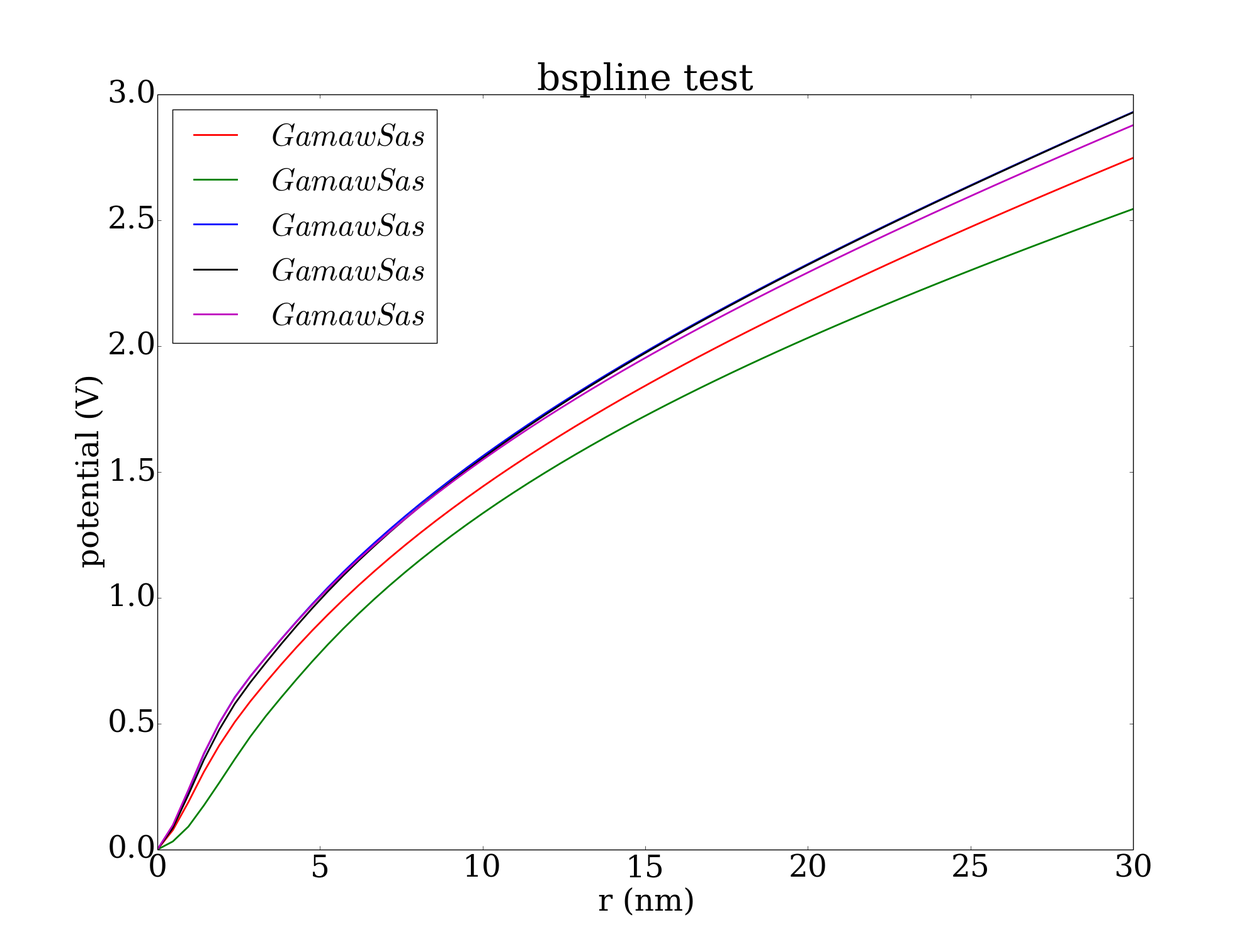
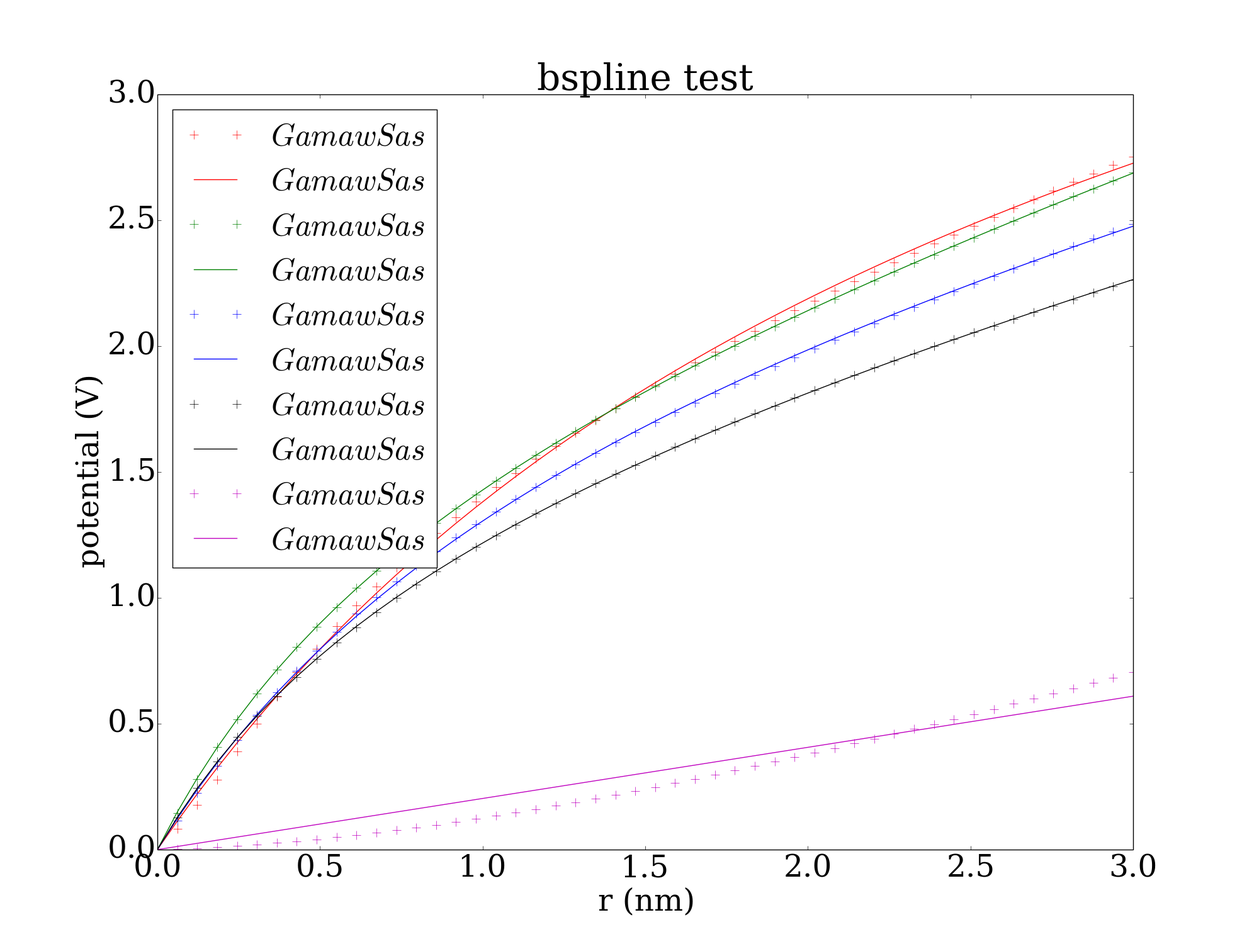
finished spline interpolation, tested. Continue developing program for surface definition

diff --git a/Emission/python/splinetest.py b/Emission/python/splinetest.py
@@ -17,30 +17,55 @@ ax.set_xlabel(r"r (nm)")
 ax.set_ylabel(r"potential (V)")
 ax.set_title(r"bspline test")
 
-x = np.array([0.0000000000000000E+00,0.4761904761904762E+00,0.9523809523809523E+00,0.1428571428571428E+01,0.1904761904761905E+01,0.2380952380952381E+01,0.2857142857142857E+01,0.3333333333333333E+01,0.3809523809523809E+01,0.4285714285714286E+01,0.4761904761904762E+01,0.5238095238095238E+01,0.5714285714285714E+01,0.6190476190476190E+01,0.6666666666666666E+01,0.7142857142857142E+01,0.7619047619047619E+01,0.8095238095238095E+01,0.8571428571428571E+01,0.9047619047619047E+01,0.9523809523809524E+01,0.1000000000000000E+02,0.1047619047619048E+02,0.1095238095238095E+02,0.1142857142857143E+02,0.1190476190476190E+02,0.1238095238095238E+02,0.1285714285714286E+02,0.1333333333333333E+02,0.1380952380952381E+02,0.1428571428571428E+02,0.1476190476190476E+02,0.1523809523809524E+02,0.1571428571428571E+02,0.1619047619047619E+02,0.1666666666666666E+02,0.1714285714285714E+02,0.1761904761904762E+02,0.1809523809523809E+02,0.1857142857142857E+02,0.1904761904761905E+02,0.1952380952380952E+02,0.2000000000000000E+02,0.2047619047619047E+02,0.2095238095238095E+02,0.2142857142857143E+02,0.2190476190476191E+02,0.2238095238095238E+02,0.2285714285714285E+02,0.2333333333333333E+02,0.2380952380952381E+02,0.2428571428571428E+02,0.2476190476190476E+02,0.2523809523809524E+02,0.2571428571428571E+02,0.2619047619047619E+02,0.2666666666666666E+02,0.2714285714285714E+02,0.2761904761904762E+02,0.2809523809523809E+02,0.2857142857142857E+02,0.2904761904761905E+02,0.2952380952380952E+02,0.3000000000000000E+02])
-y = np.array([0.1526860504101066E-16,0.7740337216348617E-01,0.1883584058646358E+00,0.3084086237162248E+00,0.4144267629353944E+00,0.5071351053610601E+00,0.5887949884117250E+00,0.6639335337873408E+00,0.7359361799367280E+00,0.8047534306693621E+00,0.8703602163735674E+00,0.9328960629791540E+00,0.9927530398034792E+00,0.1050164331290184E+01,0.1105323801727795E+01,0.1158419154210847E+01,0.1209665094036204E+01,0.1259151750474700E+01,0.1306987401695751E+01,0.1353294733512533E+01,0.1398251818374644E+01,0.1441945475313542E+01,0.1484444806970154E+01,0.1525823092575989E+01,0.1566201785782227E+01,0.1605644392575422E+01,0.1644196130985063E+01,0.1681895218994583E+01,0.1718822832416964E+01,0.1755030057464170E+01,0.1790549726737696E+01,0.1825414437561945E+01,0.1859683512795718E+01,0.1893397455796226E+01,0.1926578945019751E+01,0.1959250238786760E+01,0.1991451801218052E+01,0.2023214869567662E+01,0.2054552406054390E+01,0.2085481158191033E+01,0.2116029286056236E+01,0.2146225590787779E+01,0.2176082571772800E+01,0.2205612460765791E+01,0.2234834408324195E+01,0.2263772304930319E+01,0.2292435694544391E+01,0.2320833282022421E+01,0.2348976184378123E+01,0.2376884097389582E+01,0.2404565080684955E+01,0.2432026387506764E+01,0.2459277583159301E+01,0.2486334974887146E+01,0.2513205283161470E+01,0.2539894078683089E+01,0.2566408162656980E+01,0.2592760640418722E+01,0.2618956292772558E+01,0.2644999086707941E+01,0.2670894161917015E+01,0.2696652168954838E+01,0.2722278483307146E+01,0.2747776705953610E+01])
+x = np.array([0.0000000000000000E+00,0.6122448979591837E-01,0.1224489795918367E+00,0.1836734693877551E+00,0.2448979591836735E+00,0.3061224489795918E+00,0.3673469387755102E+00,0.4285714285714285E+00,0.4897959183673469E+00,0.5510204081632653E+00,0.6122448979591837E+00,0.6734693877551020E+00,0.7346938775510203E+00,0.7959183673469388E+00,0.8571428571428571E+00,0.9183673469387755E+00,0.9795918367346939E+00,0.1040816326530612E+01,0.1102040816326531E+01,0.1163265306122449E+01,0.1224489795918367E+01,0.1285714285714286E+01,0.1346938775510204E+01,0.1408163265306122E+01,0.1469387755102041E+01,0.1530612244897959E+01,0.1591836734693878E+01,0.1653061224489796E+01,0.1714285714285714E+01,0.1775510204081633E+01,0.1836734693877551E+01,0.1897959183673469E+01,0.1959183673469388E+01,0.2020408163265306E+01,0.2081632653061225E+01,0.2142857142857143E+01,0.2204081632653061E+01,0.2265306122448980E+01,0.2326530612244898E+01,0.2387755102040816E+01,0.2448979591836735E+01,0.2510204081632653E+01,0.2571428571428571E+01,0.2632653061224490E+01,0.2693877551020408E+01,0.2755102040816326E+01,0.2816326530612245E+01,0.2877551020408163E+01,0.2938775510204081E+01,0.3000000000000000E+01])
+y = np.array([0.0000000000000000E+00,0.8365252382614198E-01,0.1765828996166931E+00,0.2786927920827887E+00,0.3899658294138296E+00,0.5002433423914847E+00,0.6086397700021808E+00,0.7062177671520237E+00,0.7971870872882175E+00,0.8865313490488613E+00,0.9695512437120610E+00,0.1045908646092103E+01,0.1120651809870018E+01,0.1191507613489242E+01,0.1256540541525198E+01,0.1320471252349982E+01,0.1382479663372007E+01,0.1439478120780820E+01,0.1496130025536284E+01,0.1552104218701051E+01,0.1603732316538968E+01,0.1654775418613560E+01,0.1705235000834136E+01,0.1752866045213557E+01,0.1799605161466355E+01,0.1845912567597902E+01,0.1890442327993170E+01,0.1934146958838208E+01,0.1977509834832163E+01,0.2019710529623241E+01,0.2060808974461640E+01,0.2101642337182494E+01,0.2141774125130218E+01,0.2180809286688201E+01,0.2219636593381203E+01,0.2258155708602524E+01,0.2295670183402697E+01,0.2333011522904838E+01,0.2370178872378150E+01,0.2406330006400784E+01,0.2442341019601713E+01,0.2478212066213034E+01,0.2513362521167159E+01,0.2548281580111803E+01,0.2583160238297120E+01,0.2617539287005517E+01,0.2651624918915804E+01,0.2685612377554610E+01,0.2719259340255286E+01,0.2752579484853335E+01])
 
-ax.plot(x,y,"r-",linewidth=2,markersize=3,label=r"$ Gamaw Sas $")
+ax.plot(x,y,"r+",linewidth=3,markersize=10,label=r"$ Gamaw Sas $")
 
-x = np.array([0.0000000000000000E+00,0.4761904761904762E+00,0.9523809523809523E+00,0.1428571428571428E+01,0.1904761904761905E+01,0.2380952380952381E+01,0.2857142857142857E+01,0.3333333333333333E+01,0.3809523809523809E+01,0.4285714285714286E+01,0.4761904761904762E+01,0.5238095238095238E+01,0.5714285714285714E+01,0.6190476190476190E+01,0.6666666666666666E+01,0.7142857142857142E+01,0.7619047619047619E+01,0.8095238095238095E+01,0.8571428571428571E+01,0.9047619047619047E+01,0.9523809523809524E+01,0.1000000000000000E+02,0.1047619047619048E+02,0.1095238095238095E+02,0.1142857142857143E+02,0.1190476190476190E+02,0.1238095238095238E+02,0.1285714285714286E+02,0.1333333333333333E+02,0.1380952380952381E+02,0.1428571428571428E+02,0.1476190476190476E+02,0.1523809523809524E+02,0.1571428571428571E+02,0.1619047619047619E+02,0.1666666666666666E+02,0.1714285714285714E+02,0.1761904761904762E+02,0.1809523809523809E+02,0.1857142857142857E+02,0.1904761904761905E+02,0.1952380952380952E+02,0.2000000000000000E+02,0.2047619047619047E+02,0.2095238095238095E+02,0.2142857142857143E+02,0.2190476190476191E+02,0.2238095238095238E+02,0.2285714285714285E+02,0.2333333333333333E+02,0.2380952380952381E+02,0.2428571428571428E+02,0.2476190476190476E+02,0.2523809523809524E+02,0.2571428571428571E+02,0.2619047619047619E+02,0.2666666666666666E+02,0.2714285714285714E+02,0.2761904761904762E+02,0.2809523809523809E+02,0.2857142857142857E+02,0.2904761904761905E+02,0.2952380952380952E+02,0.3000000000000000E+02])
-y = np.array([0.7634302520505330E-17,0.3244796254251441E-01,0.9120107552925213E-01,0.1752804258231468E+00,0.2661121691903252E+00,0.3594158334941829E+00,0.4486428211845050E+00,0.5301586430326056E+00,0.6049567241159403E+00,0.6775102303419914E+00,0.7474877554794854E+00,0.8141837068633498E+00,0.8774794300205188E+00,0.9375526763029089E+00,0.9948196019391180E+00,0.1049585288199028E+01,0.1102080842017222E+01,0.1152400156215932E+01,0.1200743164922067E+01,0.1247298600186883E+01,0.1292207220489071E+01,0.1335599985191833E+01,0.1377596950690793E+01,0.1418289789003863E+01,0.1457766696108457E+01,0.1496114913257997E+01,0.1533416624501901E+01,0.1569750403768955E+01,0.1605200159820491E+01,0.1639809119168745E+01,0.1673617172013964E+01,0.1706677939383164E+01,0.1739043707221486E+01,0.1770768425501186E+01,0.1801891646733513E+01,0.1832442954087628E+01,0.1862445022550812E+01,0.1891933466459826E+01,0.1920943872677923E+01,0.1949503210952504E+01,0.1977636767547431E+01,0.2005366444902646E+01,0.2032708237451445E+01,0.2059685203142150E+01,0.2086316421758636E+01,0.2112620085860536E+01,0.2138613576047022E+01,0.2164314318942413E+01,0.2189732731173904E+01,0.2214881208993901E+01,0.2239773131954598E+01,0.2264421356742895E+01,0.2288839337099855E+01,0.2313038474146230E+01,0.2337025473679525E+01,0.2360808471010855E+01,0.2384397201598554E+01,0.2407801789254519E+01,0.2431030712666767E+01,0.2454091722879356E+01,0.2476990580619209E+01,0.2499732677445093E+01,0.2522325682182666E+01,0.2544776028724904E+01])
+x = np.array([0.0000000000000000E+00,0.6122448979591837E-01,0.1224489795918367E+00,0.1836734693877551E+00,0.2448979591836735E+00,0.3061224489795918E+00,0.3673469387755102E+00,0.4285714285714285E+00,0.4897959183673469E+00,0.5510204081632653E+00,0.6122448979591837E+00,0.6734693877551020E+00,0.7346938775510203E+00,0.7959183673469388E+00,0.8571428571428571E+00,0.9183673469387755E+00,0.9795918367346939E+00,0.1040816326530612E+01,0.1102040816326531E+01,0.1163265306122449E+01,0.1224489795918367E+01,0.1285714285714286E+01,0.1346938775510204E+01,0.1408163265306122E+01,0.1469387755102041E+01,0.1530612244897959E+01,0.1591836734693878E+01,0.1653061224489796E+01,0.1714285714285714E+01,0.1775510204081633E+01,0.1836734693877551E+01,0.1897959183673469E+01,0.1959183673469388E+01,0.2020408163265306E+01,0.2081632653061225E+01,0.2142857142857143E+01,0.2204081632653061E+01,0.2265306122448980E+01,0.2326530612244898E+01,0.2387755102040816E+01,0.2448979591836735E+01,0.2510204081632653E+01,0.2571428571428571E+01,0.2632653061224490E+01,0.2693877551020408E+01,0.2755102040816326E+01,0.2816326530612245E+01,0.2877551020408163E+01,0.2938775510204081E+01,0.3000000000000000E+01])
+y = np.array([0.0000000000000000E+00,0.1129381242013363E+00,0.2209999276384529E+00,0.3245029217946538E+00,0.4237376382666053E+00,0.5189704348545132E+00,0.6104459585661924E+00,0.6983893134962811E+00,0.7830079740294010E+00,0.8644934776019871E+00,0.9430229260971914E+00,0.1018760320645824E+01,0.1091857751007792E+01,0.1162456457687534E+01,0.1230687782392420E+01,0.1296674020292814E+01,0.1360529185719912E+01,0.1422359701387871E+01,0.1482265019905516E+01,0.1540338185213266E+01,0.1596666340612454E+01,0.1651331189221746E+01,0.1704409411978107E+01,0.1755973047680126E+01,0.1806089839035051E+01,0.1854823548205378E+01,0.1902234244945915E+01,0.1948378570069401E+01,0.1993309976670545E+01,0.2037078951268646E+01,0.2079733216792465E+01,0.2121317919123260E+01,0.2161875798729058E+01,0.2201447348761988E+01,0.2240070960848146E+01,0.2277783059673456E+01,0.2314618227357355E+01,0.2350609318507055E+01,0.2385787566757022E+01,0.2420182683519899E+01,0.2453822949605142E+01,0.2486735300299222E+01,0.2518945404445365E+01,0.2550477738010844E+01,0.2581355652584953E+01,0.2611601439210590E+01,0.2641236387916141E+01,0.2670280843281833E+01,0.2698754256345338E+01,0.2726675233124938E+01])
 
-ax.plot(x,y,"g-",linewidth=2,markersize=3,label=r"$ Gamaw Sas $")
+ax.plot(x,y,"r-",linewidth=1,markersize=3,label=r"$ Gamaw Sas $")
 
-x = np.array([0.0000000000000000E+00,0.4761904761904762E+00,0.9523809523809523E+00,0.1428571428571428E+01,0.1904761904761905E+01,0.2380952380952381E+01,0.2857142857142857E+01,0.3333333333333333E+01,0.3809523809523809E+01,0.4285714285714286E+01,0.4761904761904762E+01,0.5238095238095238E+01,0.5714285714285714E+01,0.6190476190476190E+01,0.6666666666666666E+01,0.7142857142857142E+01,0.7619047619047619E+01,0.8095238095238095E+01,0.8571428571428571E+01,0.9047619047619047E+01,0.9523809523809524E+01,0.1000000000000000E+02,0.1047619047619048E+02,0.1095238095238095E+02,0.1142857142857143E+02,0.1190476190476190E+02,0.1238095238095238E+02,0.1285714285714286E+02,0.1333333333333333E+02,0.1380952380952381E+02,0.1428571428571428E+02,0.1476190476190476E+02,0.1523809523809524E+02,0.1571428571428571E+02,0.1619047619047619E+02,0.1666666666666666E+02,0.1714285714285714E+02,0.1761904761904762E+02,0.1809523809523809E+02,0.1857142857142857E+02,0.1904761904761905E+02,0.1952380952380952E+02,0.2000000000000000E+02,0.2047619047619047E+02,0.2095238095238095E+02,0.2142857142857143E+02,0.2190476190476191E+02,0.2238095238095238E+02,0.2285714285714285E+02,0.2333333333333333E+02,0.2380952380952381E+02,0.2428571428571428E+02,0.2476190476190476E+02,0.2523809523809524E+02,0.2571428571428571E+02,0.2619047619047619E+02,0.2666666666666666E+02,0.2714285714285714E+02,0.2761904761904762E+02,0.2809523809523809E+02,0.2857142857142857E+02,0.2904761904761905E+02,0.2952380952380952E+02,0.3000000000000000E+02])
-y = np.array([0.2290290756151599E-16,0.9371616336571086E-01,0.2336569181094876E+00,0.3793605291708295E+00,0.5029958840816275E+00,0.6054361112597728E+00,0.6881845175644110E+00,0.7636588528944225E+00,0.8367213345140443E+00,0.9073398767377832E+00,0.9754218858420615E+00,0.1040488042667322E+01,0.1102487431161472E+01,0.1161486869227586E+01,0.1217730886006275E+01,0.1272040730037508E+01,0.1324524316285961E+01,0.1375196425666003E+01,0.1424187023906868E+01,0.1471794238138088E+01,0.1518043208317517E+01,0.1562945974885743E+01,0.1606644946088072E+01,0.1649330592888378E+01,0.1691010756845834E+01,0.1731692854100751E+01,0.1771505810823730E+01,0.1810545587148559E+01,0.1848816704076330E+01,0.1886328369192426E+01,0.1923190610593886E+01,0.1959450897211977E+01,0.1995112398000540E+01,0.2030187873005537E+01,0.2064764720092889E+01,0.2098865088668813E+01,0.2132491225616707E+01,0.2165659575847260E+01,0.2198435904491843E+01,0.2230829575908484E+01,0.2262842227393443E+01,0.2294493510776672E+01,0.2325830216409026E+01,0.2356855751953799E+01,0.2387571339735590E+01,0.2417999164074458E+01,0.2448170058357941E+01,0.2478085159612062E+01,0.2507745504296504E+01,0.2537174816547164E+01,0.2566391146949090E+01,0.2595395204178965E+01,0.2624188620534652E+01,0.2652793960107604E+01,0.2681221107136234E+01,0.2709470619424983E+01,0.2737545177604558E+01,0.2765464491858025E+01,0.2793233607554193E+01,0.2820852969743535E+01,0.2848326453711805E+01,0.2875670184261240E+01,0.2902886469565330E+01,0.2929975669054288E+01])
+x = np.array([0.0000000000000000E+00,0.6122448979591837E-01,0.1224489795918367E+00,0.1836734693877551E+00,0.2448979591836735E+00,0.3061224489795918E+00,0.3673469387755102E+00,0.4285714285714285E+00,0.4897959183673469E+00,0.5510204081632653E+00,0.6122448979591837E+00,0.6734693877551020E+00,0.7346938775510203E+00,0.7959183673469388E+00,0.8571428571428571E+00,0.9183673469387755E+00,0.9795918367346939E+00,0.1040816326530612E+01,0.1102040816326531E+01,0.1163265306122449E+01,0.1224489795918367E+01,0.1285714285714286E+01,0.1346938775510204E+01,0.1408163265306122E+01,0.1469387755102041E+01,0.1530612244897959E+01,0.1591836734693878E+01,0.1653061224489796E+01,0.1714285714285714E+01,0.1775510204081633E+01,0.1836734693877551E+01,0.1897959183673469E+01,0.1959183673469388E+01,0.2020408163265306E+01,0.2081632653061225E+01,0.2142857142857143E+01,0.2204081632653061E+01,0.2265306122448980E+01,0.2326530612244898E+01,0.2387755102040816E+01,0.2448979591836735E+01,0.2510204081632653E+01,0.2571428571428571E+01,0.2632653061224490E+01,0.2693877551020408E+01,0.2755102040816326E+01,0.2816326530612245E+01,0.2877551020408163E+01,0.2938775510204081E+01,0.3000000000000000E+01])
+y = np.array([0.0000000000000000E+00,0.1448226806374075E+00,0.2810222807676810E+00,0.4084546633522871E+00,0.5187308826573174E+00,0.6191052638465085E+00,0.7148965047003569E+00,0.8042507721270299E+00,0.8852472935063175E+00,0.9634872001046977E+00,0.1038976285723435E+01,0.1107179932391700E+01,0.1173087943128023E+01,0.1237090156939509E+01,0.1297374091516956E+01,0.1354777741724825E+01,0.1410880403321632E+01,0.1465098503863797E+01,0.1516178319211670E+01,0.1566286468928602E+01,0.1615538372882513E+01,0.1662276163438773E+01,0.1708053918448462E+01,0.1753134747843284E+01,0.1796769786493855E+01,0.1839110604310457E+01,0.1880941143096611E+01,0.1922115501514600E+01,0.1961865167508873E+01,0.2001202487115784E+01,0.2040128013709689E+01,0.2077937146105642E+01,0.2115233138259319E+01,0.2152251438965823E+01,0.2188634776633341E+01,0.2224347317400507E+01,0.2259797972346157E+01,0.2294934080878281E+01,0.2329307135956552E+01,0.2363484261151478E+01,0.2397463362264495E+01,0.2430896159393794E+01,0.2464027846685651E+01,0.2496983975090605E+01,0.2529620417622760E+01,0.2561870078201966E+01,0.2593988615837924E+01,0.2625955678979150E+01,0.2657482655671315E+01,0.2688886996819702E+01])
 
-ax.plot(x,y,"b-",linewidth=2,markersize=3,label=r"$ Gamaw Sas $")
+ax.plot(x,y,"g+",linewidth=3,markersize=10,label=r"$ Gamaw Sas $")
 
-x = np.array([0.0000000000000000E+00,0.4761904761904762E+00,0.9523809523809523E+00,0.1428571428571428E+01,0.1904761904761905E+01,0.2380952380952381E+01,0.2857142857142857E+01,0.3333333333333333E+01,0.3809523809523809E+01,0.4285714285714286E+01,0.4761904761904762E+01,0.5238095238095238E+01,0.5714285714285714E+01,0.6190476190476190E+01,0.6666666666666666E+01,0.7142857142857142E+01,0.7619047619047619E+01,0.8095238095238095E+01,0.8571428571428571E+01,0.9047619047619047E+01,0.9523809523809524E+01,0.1000000000000000E+02,0.1047619047619048E+02,0.1095238095238095E+02,0.1142857142857143E+02,0.1190476190476190E+02,0.1238095238095238E+02,0.1285714285714286E+02,0.1333333333333333E+02,0.1380952380952381E+02,0.1428571428571428E+02,0.1476190476190476E+02,0.1523809523809524E+02,0.1571428571428571E+02,0.1619047619047619E+02,0.1666666666666666E+02,0.1714285714285714E+02,0.1761904761904762E+02,0.1809523809523809E+02,0.1857142857142857E+02,0.1904761904761905E+02,0.1952380952380952E+02,0.2000000000000000E+02,0.2047619047619047E+02,0.2095238095238095E+02,0.2142857142857143E+02,0.2190476190476191E+02,0.2238095238095238E+02,0.2285714285714285E+02,0.2333333333333333E+02,0.2380952380952381E+02,0.2428571428571428E+02,0.2476190476190476E+02,0.2523809523809524E+02,0.2571428571428571E+02,0.2619047619047619E+02,0.2666666666666666E+02,0.2714285714285714E+02,0.2761904761904762E+02,0.2809523809523809E+02,0.2857142857142857E+02,0.2904761904761905E+02,0.2952380952380952E+02,0.3000000000000000E+02])
-y = np.array([0.3817151260252665E-17,0.8660855247644710E-01,0.2178023769747053E+00,0.3566962849313147E+00,0.4770777291117856E+00,0.5792808649959859E+00,0.6641209243382238E+00,0.7419744312676134E+00,0.8170373271268366E+00,0.8893157307785612E+00,0.9587795577440412E+00,0.1025130028250665E+01,0.1088325468432642E+01,0.1148400261660520E+01,0.1205582161207703E+01,0.1260745606291770E+01,0.1314002904982917E+01,0.1365364976997861E+01,0.1414970844478924E+01,0.1463147795871470E+01,0.1509918297341748E+01,0.1555290098340579E+01,0.1599414005848452E+01,0.1642496413437273E+01,0.1684543064505718E+01,0.1725559147506468E+01,0.1765680872124366E+01,0.1805010334858901E+01,0.1843550517836102E+01,0.1881309248374959E+01,0.1918402695941550E+01,0.1954880823375866E+01,0.1990745753934790E+01,0.2026009685646754E+01,0.2060764435971217E+01,0.2095032897581604E+01,0.2128816602540367E+01,0.2162131945855752E+01,0.2195047837941904E+01,0.2227573708526797E+01,0.2259710692465196E+01,0.2291478724337713E+01,0.2322926720956008E+01,0.2354057907398926E+01,0.2384873144761834E+01,0.2415395108931241E+01,0.2445655986879049E+01,0.2475656679274366E+01,0.2505397949608140E+01,0.2534904160743282E+01,0.2564194117918579E+01,0.2593268330072269E+01,0.2622128233801110E+01,0.2650797066861441E+01,0.2679285078181339E+01,0.2707592674174412E+01,0.2735722416611970E+01,0.2763694628826319E+01,0.2791514505173891E+01,0.2819182374305687E+01,0.2846702060614564E+01,0.2874090203351039E+01,0.2901349144803230E+01,0.2928479153742298E+01])
+x = np.array([0.0000000000000000E+00,0.6122448979591837E-01,0.1224489795918367E+00,0.1836734693877551E+00,0.2448979591836735E+00,0.3061224489795918E+00,0.3673469387755102E+00,0.4285714285714285E+00,0.4897959183673469E+00,0.5510204081632653E+00,0.6122448979591837E+00,0.6734693877551020E+00,0.7346938775510203E+00,0.7959183673469388E+00,0.8571428571428571E+00,0.9183673469387755E+00,0.9795918367346939E+00,0.1040816326530612E+01,0.1102040816326531E+01,0.1163265306122449E+01,0.1224489795918367E+01,0.1285714285714286E+01,0.1346938775510204E+01,0.1408163265306122E+01,0.1469387755102041E+01,0.1530612244897959E+01,0.1591836734693878E+01,0.1653061224489796E+01,0.1714285714285714E+01,0.1775510204081633E+01,0.1836734693877551E+01,0.1897959183673469E+01,0.1959183673469388E+01,0.2020408163265306E+01,0.2081632653061225E+01,0.2142857142857143E+01,0.2204081632653061E+01,0.2265306122448980E+01,0.2326530612244898E+01,0.2387755102040816E+01,0.2448979591836735E+01,0.2510204081632653E+01,0.2571428571428571E+01,0.2632653061224490E+01,0.2693877551020408E+01,0.2755102040816326E+01,0.2816326530612245E+01,0.2877551020408163E+01,0.2938775510204081E+01,0.3000000000000000E+01])
+y = np.array([0.0000000000000000E+00,0.1491793799064006E+00,0.2834534743409672E+00,0.4053296971692012E+00,0.5167829176653038E+00,0.6193897146165734E+00,0.7144239654745576E+00,0.8029261668801828E+00,0.8857545396747998E+00,0.9636232683805978E+00,0.1037131501657795E+01,0.1106785617203919E+01,0.1173016508189169E+01,0.1236193143291073E+01,0.1296633304999906E+01,0.1354612168273836E+01,0.1410369209840823E+01,0.1464113815228774E+01,0.1516029861164581E+01,0.1566279485333937E+01,0.1615006206806827E+01,0.1662337523974961E+01,0.1708387089297209E+01,0.1753256539152600E+01,0.1797037040970152E+01,0.1839810607318951E+01,0.1881651216908022E+01,0.1922625774805816E+01,0.1962794938154635E+01,0.2002213828859819E+01,0.2040932650900722E+01,0.2078997226830289E+01,0.2116449465541763E+01,0.2153327771360982E+01,0.2189667402874902E+01,0.2225500788556787E+01,0.2260857805137374E+01,0.2295766023753086E+01,0.2330250928140566E+01,0.2364336108512374E+01,0.2398043434218373E+01,0.2431393207852486E+01,0.2464404303090176E+01,0.2497094288225792E+01,0.2529479537111245E+01,0.2561575328969932E+01,0.2593395938366025E+01,0.2624954716443592E+01,0.2656264164408168E+01,0.2687336000101436E+01])
 
-ax.plot(x,y,"k-",linewidth=2,markersize=3,label=r"$ Gamaw Sas $")
+ax.plot(x,y,"g-",linewidth=1,markersize=3,label=r"$ Gamaw Sas $")
 
-x = np.array([0.0000000000000000E+00,0.4761904761904762E+00,0.9523809523809523E+00,0.1428571428571428E+01,0.1904761904761905E+01,0.2380952380952381E+01,0.2857142857142857E+01,0.3333333333333333E+01,0.3809523809523809E+01,0.4285714285714286E+01,0.4761904761904762E+01,0.5238095238095238E+01,0.5714285714285714E+01,0.6190476190476190E+01,0.6666666666666666E+01,0.7142857142857142E+01,0.7619047619047619E+01,0.8095238095238095E+01,0.8571428571428571E+01,0.9047619047619047E+01,0.9523809523809524E+01,0.1000000000000000E+02,0.1047619047619048E+02,0.1095238095238095E+02,0.1142857142857143E+02,0.1190476190476190E+02,0.1238095238095238E+02,0.1285714285714286E+02,0.1333333333333333E+02,0.1380952380952381E+02,0.1428571428571428E+02,0.1476190476190476E+02,0.1523809523809524E+02,0.1571428571428571E+02,0.1619047619047619E+02,0.1666666666666666E+02,0.1714285714285714E+02,0.1761904761904762E+02,0.1809523809523809E+02,0.1857142857142857E+02,0.1904761904761905E+02,0.1952380952380952E+02,0.2000000000000000E+02,0.2047619047619047E+02,0.2095238095238095E+02,0.2142857142857143E+02,0.2190476190476191E+02,0.2238095238095238E+02,0.2285714285714285E+02,0.2333333333333333E+02,0.2380952380952381E+02,0.2428571428571428E+02,0.2476190476190476E+02,0.2523809523809524E+02,0.2571428571428571E+02,0.2619047619047619E+02,0.2666666666666666E+02,0.2714285714285714E+02,0.2761904761904762E+02,0.2809523809523809E+02,0.2857142857142857E+02,0.2904761904761905E+02,0.2952380952380952E+02,0.3000000000000000E+02])
-y = np.array([0.7634302520505330E-17,0.9768715207944281E-01,0.2369437313606734E+00,0.3816773406792837E+00,0.5032418678157925E+00,0.6041449818341745E+00,0.6878644031993536E+00,0.7633465752386682E+00,0.8360700200115914E+00,0.9057714500354622E+00,0.9722782146069898E+00,0.1035660379703970E+01,0.1096200825784493E+01,0.1154094530821518E+01,0.1209513677554283E+01,0.1262861236343900E+01,0.1314414364885623E+01,0.1364216033896788E+01,0.1412312603837956E+01,0.1458936678663454E+01,0.1504266346759343E+01,0.1548331263572750E+01,0.1591157987550085E+01,0.1632903875718658E+01,0.1673684445546736E+01,0.1713521698449846E+01,0.1752438803975720E+01,0.1790547100608661E+01,0.1827924641998487E+01,0.1864586393968743E+01,0.1900548401773478E+01,0.1935890540229664E+01,0.1970666644937672E+01,0.2004887402419357E+01,0.2038564463394958E+01,0.2071755783273370E+01,0.2104498300404322E+01,0.2136800462655045E+01,0.2168671473571798E+01,0.2200156278313111E+01,0.2231282984211365E+01,0.2262057818286873E+01,0.2292487684856912E+01,0.2322607014334152E+01,0.2352436510980843E+01,0.2381980887156613E+01,0.2411245474886143E+01,0.2440257116013661E+01,0.2469031308278492E+01,0.2497570944247611E+01,0.2525880076556607E+01,0.2553980129870606E+01,0.2581883097064035E+01,0.2609592004078335E+01,0.2637110364683144E+01,0.2664455299075941E+01,0.2691636030603097E+01,0.2718654949712683E+01,0.2745514896816037E+01,0.2772229717701202E+01,0.2798806597315596E+01,0.2825247457882334E+01,0.2851554540039305E+01,0.2877738771374135E+01])
+x = np.array([0.0000000000000000E+00,0.6122448979591837E-01,0.1224489795918367E+00,0.1836734693877551E+00,0.2448979591836735E+00,0.3061224489795918E+00,0.3673469387755102E+00,0.4285714285714285E+00,0.4897959183673469E+00,0.5510204081632653E+00,0.6122448979591837E+00,0.6734693877551020E+00,0.7346938775510203E+00,0.7959183673469388E+00,0.8571428571428571E+00,0.9183673469387755E+00,0.9795918367346939E+00,0.1040816326530612E+01,0.1102040816326531E+01,0.1163265306122449E+01,0.1224489795918367E+01,0.1285714285714286E+01,0.1346938775510204E+01,0.1408163265306122E+01,0.1469387755102041E+01,0.1530612244897959E+01,0.1591836734693878E+01,0.1653061224489796E+01,0.1714285714285714E+01,0.1775510204081633E+01,0.1836734693877551E+01,0.1897959183673469E+01,0.1959183673469388E+01,0.2020408163265306E+01,0.2081632653061225E+01,0.2142857142857143E+01,0.2204081632653061E+01,0.2265306122448980E+01,0.2326530612244898E+01,0.2387755102040816E+01,0.2448979591836735E+01,0.2510204081632653E+01,0.2571428571428571E+01,0.2632653061224490E+01,0.2693877551020408E+01,0.2755102040816326E+01,0.2816326530612245E+01,0.2877551020408163E+01,0.2938775510204081E+01,0.3000000000000000E+01])
+y = np.array([0.0000000000000000E+00,0.1139897904939848E+00,0.2246557303684199E+00,0.3319135451217604E+00,0.4358462907681155E+00,0.5348813993956507E+00,0.6245003204738958E+00,0.7096046784981851E+00,0.7894011488757844E+00,0.8648336028156298E+00,0.9364497394351547E+00,0.1002938833676480E+01,0.1065795096693152E+01,0.1126283854174474E+01,0.1184606046237509E+01,0.1240432026092224E+01,0.1292715383007909E+01,0.1343597899475421E+01,0.1393081623228061E+01,0.1440849726605801E+01,0.1486819909394408E+01,0.1531223676641367E+01,0.1574676001222171E+01,0.1616772772825039E+01,0.1657886948459253E+01,0.1698087299400982E+01,0.1737259419530307E+01,0.1775326524971547E+01,0.1812816333482536E+01,0.1849731152211543E+01,0.1885877104687284E+01,0.1921098298646807E+01,0.1955890678345565E+01,0.1990254579484918E+01,0.2024033791946935E+01,0.2057233928475828E+01,0.2089970868295805E+01,0.2122380638455073E+01,0.2154282509716774E+01,0.2185864967754899E+01,0.2217096317847840E+01,0.2247956834847412E+01,0.2278426663739498E+01,0.2308672253526414E+01,0.2338693722967246E+01,0.2368376772616361E+01,0.2397732992924383E+01,0.2426910119413262E+01,0.2455908234958217E+01,0.2484655551374082E+01])
 
-ax.plot(x,y,"m-",linewidth=2,markersize=3,label=r"$ Gamaw Sas $")
+ax.plot(x,y,"b+",linewidth=3,markersize=10,label=r"$ Gamaw Sas $")
+
+x = np.array([0.0000000000000000E+00,0.6122448979591837E-01,0.1224489795918367E+00,0.1836734693877551E+00,0.2448979591836735E+00,0.3061224489795918E+00,0.3673469387755102E+00,0.4285714285714285E+00,0.4897959183673469E+00,0.5510204081632653E+00,0.6122448979591837E+00,0.6734693877551020E+00,0.7346938775510203E+00,0.7959183673469388E+00,0.8571428571428571E+00,0.9183673469387755E+00,0.9795918367346939E+00,0.1040816326530612E+01,0.1102040816326531E+01,0.1163265306122449E+01,0.1224489795918367E+01,0.1285714285714286E+01,0.1346938775510204E+01,0.1408163265306122E+01,0.1469387755102041E+01,0.1530612244897959E+01,0.1591836734693878E+01,0.1653061224489796E+01,0.1714285714285714E+01,0.1775510204081633E+01,0.1836734693877551E+01,0.1897959183673469E+01,0.1959183673469388E+01,0.2020408163265306E+01,0.2081632653061225E+01,0.2142857142857143E+01,0.2204081632653061E+01,0.2265306122448980E+01,0.2326530612244898E+01,0.2387755102040816E+01,0.2448979591836735E+01,0.2510204081632653E+01,0.2571428571428571E+01,0.2632653061224490E+01,0.2693877551020408E+01,0.2755102040816326E+01,0.2816326530612245E+01,0.2877551020408163E+01,0.2938775510204081E+01,0.3000000000000000E+01])
+y = np.array([0.0000000000000000E+00,0.1235577844434580E+00,0.2379025208590272E+00,0.3441775701867725E+00,0.4433446171383431E+00,0.5362183762107533E+00,0.6234936345225768E+00,0.7057665354625652E+00,0.7835514850274634E+00,0.8572946963453801E+00,0.9273851272768345E+00,0.9941633782808361E+00,0.1057928980952923E+01,0.1118946406884296E+01,0.1177450051514695E+01,0.1233648391329334E+01,0.1287727470063909E+01,0.1339853836959390E+01,0.1390177034980778E+01,0.1438831717415841E+01,0.1485939456033633E+01,0.1531610291997895E+01,0.1575944071244084E+01,0.1619031598475141E+01,0.1660955637882432E+01,0.1701791783828619E+01,0.1741609220788549E+01,0.1780471388639834E+01,0.1818436566776876E+01,0.1855558388373720E+01,0.1891886294350631E+01,0.1927465935134203E+01,0.1962339527083665E+01,0.1996546169441183E+01,0.2030122126814544E+01,0.2063101081487371E+01,0.2095514359251013E+01,0.2127391131944226E+01,0.2158758599456022E+01,0.2189642153580746E+01,0.2220065525801987E+01,0.2250050920814754E+01,0.2279619137366206E+01,0.2308789677798197E+01,0.2337580847505142E+01,0.2366009845373974E+01,0.2394092846145938E+01,0.2421845075529658E+01,0.2449280878799045E+01,0.2476413783525910E+01])
+
+ax.plot(x,y,"b-",linewidth=1,markersize=3,label=r"$ Gamaw Sas $")
+
+x = np.array([0.0000000000000000E+00,0.6122448979591837E-01,0.1224489795918367E+00,0.1836734693877551E+00,0.2448979591836735E+00,0.3061224489795918E+00,0.3673469387755102E+00,0.4285714285714285E+00,0.4897959183673469E+00,0.5510204081632653E+00,0.6122448979591837E+00,0.6734693877551020E+00,0.7346938775510203E+00,0.7959183673469388E+00,0.8571428571428571E+00,0.9183673469387755E+00,0.9795918367346939E+00,0.1040816326530612E+01,0.1102040816326531E+01,0.1163265306122449E+01,0.1224489795918367E+01,0.1285714285714286E+01,0.1346938775510204E+01,0.1408163265306122E+01,0.1469387755102041E+01,0.1530612244897959E+01,0.1591836734693878E+01,0.1653061224489796E+01,0.1714285714285714E+01,0.1775510204081633E+01,0.1836734693877551E+01,0.1897959183673469E+01,0.1959183673469388E+01,0.2020408163265306E+01,0.2081632653061225E+01,0.2142857142857143E+01,0.2204081632653061E+01,0.2265306122448980E+01,0.2326530612244898E+01,0.2387755102040816E+01,0.2448979591836735E+01,0.2510204081632653E+01,0.2571428571428571E+01,0.2632653061224490E+01,0.2693877551020408E+01,0.2755102040816326E+01,0.2816326530612245E+01,0.2877551020408163E+01,0.2938775510204081E+01,0.3000000000000000E+01])
+y = np.array([0.0000000000000000E+00,0.1268171736932402E+00,0.2438434104576729E+00,0.3509872738249824E+00,0.4481573273268492E+00,0.5309763158882264E+00,0.6099559583201180E+00,0.6853149919836800E+00,0.7570532610898005E+00,0.8216582008762502E+00,0.8834991235463791E+00,0.9431197838359711E+00,0.1000523594890008E+01,0.1053681938376417E+01,0.1104644476990518E+01,0.1154141564923611E+01,0.1202175491697146E+01,0.1247646201225860E+01,0.1291229553514513E+01,0.1333847588328632E+01,0.1375453087155797E+01,0.1415506645208395E+01,0.1453892010045945E+01,0.1491645056032057E+01,0.1528671212381646E+01,0.1564730601226663E+01,0.1599375943194339E+01,0.1633575841307330E+01,0.1667238143042820E+01,0.1700289334740338E+01,0.1732151312351522E+01,0.1763686337551412E+01,0.1794813890847468E+01,0.1825534291016810E+01,0.1855304715571321E+01,0.1884782116811330E+01,0.1913958547529373E+01,0.1942820002195683E+01,0.1970997747582276E+01,0.1998866647090263E+01,0.2026514078924714E+01,0.2053913712361996E+01,0.2080814726857838E+01,0.2107407517979492E+01,0.2133838563864041E+01,0.2160071947128608E+01,0.2185938981517343E+01,0.2211505159154496E+01,0.2236955014775595E+01,0.2262246607131171E+01])
+
+ax.plot(x,y,"k+",linewidth=3,markersize=10,label=r"$ Gamaw Sas $")
+
+x = np.array([0.0000000000000000E+00,0.6122448979591837E-01,0.1224489795918367E+00,0.1836734693877551E+00,0.2448979591836735E+00,0.3061224489795918E+00,0.3673469387755102E+00,0.4285714285714285E+00,0.4897959183673469E+00,0.5510204081632653E+00,0.6122448979591837E+00,0.6734693877551020E+00,0.7346938775510203E+00,0.7959183673469388E+00,0.8571428571428571E+00,0.9183673469387755E+00,0.9795918367346939E+00,0.1040816326530612E+01,0.1102040816326531E+01,0.1163265306122449E+01,0.1224489795918367E+01,0.1285714285714286E+01,0.1346938775510204E+01,0.1408163265306122E+01,0.1469387755102041E+01,0.1530612244897959E+01,0.1591836734693878E+01,0.1653061224489796E+01,0.1714285714285714E+01,0.1775510204081633E+01,0.1836734693877551E+01,0.1897959183673469E+01,0.1959183673469388E+01,0.2020408163265306E+01,0.2081632653061225E+01,0.2142857142857143E+01,0.2204081632653061E+01,0.2265306122448980E+01,0.2326530612244898E+01,0.2387755102040816E+01,0.2448979591836735E+01,0.2510204081632653E+01,0.2571428571428571E+01,0.2632653061224490E+01,0.2693877551020408E+01,0.2755102040816326E+01,0.2816326530612245E+01,0.2877551020408163E+01,0.2938775510204081E+01,0.3000000000000000E+01])
+y = np.array([0.0000000000000000E+00,0.1282194418962899E+00,0.2434818726006486E+00,0.3479669480711202E+00,0.4433913941518443E+00,0.5311257102877096E+00,0.6122772629409874E+00,0.6877505444169414E+00,0.7582915974133291E+00,0.8245212558753744E+00,0.8869603545777617E+00,0.9460490836301423E+00,0.1002162015304293E+01,0.1055619891572060E+01,0.1106698958764846E+01,0.1155638424885900E+01,0.1202646465780810E+01,0.1247905099263103E+01,0.1291574168542939E+01,0.1333794619239780E+01,0.1374691211937259E+01,0.1414374780545757E+01,0.1452944122789200E+01,0.1490487590880810E+01,0.1527084436430658E+01,0.1562805952774185E+01,0.1597716449449304E+01,0.1631874086908643E+01,0.1665331594307735E+01,0.1698136889041357E+01,0.1730333613368362E+01,0.1761961600787800E+01,0.1793057282666079E+01,0.1823654043858869E+01,0.1853782534639061E+01,0.1883470945068348E+01,0.1912745246984120E+01,0.1941629407975127E+01,0.1970145581057186E+01,0.1998314273208640E+01,0.2026154495464330E+01,0.2053683896880135E+01,0.2080918884354681E+01,0.2107874730020028E+01,0.2134565667680377E+01,0.2161004979580087E+01,0.2187205074613767E+01,0.2213177558947293E+01,0.2238933299895191E+01,0.2264482483793898E+01])
+
+ax.plot(x,y,"k-",linewidth=1,markersize=3,label=r"$ Gamaw Sas $")
+
+x = np.array([0.0000000000000000E+00,0.6122448979591837E-01,0.1224489795918367E+00,0.1836734693877551E+00,0.2448979591836735E+00,0.3061224489795918E+00,0.3673469387755102E+00,0.4285714285714285E+00,0.4897959183673469E+00,0.5510204081632653E+00,0.6122448979591837E+00,0.6734693877551020E+00,0.7346938775510203E+00,0.7959183673469388E+00,0.8571428571428571E+00,0.9183673469387755E+00,0.9795918367346939E+00,0.1040816326530612E+01,0.1102040816326531E+01,0.1163265306122449E+01,0.1224489795918367E+01,0.1285714285714286E+01,0.1346938775510204E+01,0.1408163265306122E+01,0.1469387755102041E+01,0.1530612244897959E+01,0.1591836734693878E+01,0.1653061224489796E+01,0.1714285714285714E+01,0.1775510204081633E+01,0.1836734693877551E+01,0.1897959183673469E+01,0.1959183673469388E+01,0.2020408163265306E+01,0.2081632653061225E+01,0.2142857142857143E+01,0.2204081632653061E+01,0.2265306122448980E+01,0.2326530612244898E+01,0.2387755102040816E+01,0.2448979591836735E+01,0.2510204081632653E+01,0.2571428571428571E+01,0.2632653061224490E+01,0.2693877551020408E+01,0.2755102040816326E+01,0.2816326530612245E+01,0.2877551020408163E+01,0.2938775510204081E+01,0.3000000000000000E+01])
+y = np.array([0.0000000000000000E+00,0.2424507592998031E-02,0.5663158947825523E-02,0.9716365179137921E-02,0.1458544146517100E-01,0.2016649501962950E-01,0.2636508364733499E-01,0.3327630567374801E-01,0.4090218906383738E-01,0.4926335305448745E-01,0.5792264443278854E-01,0.6720925630350651E-01,0.7712900508124812E-01,0.8773899014282532E-01,0.9869141906673547E-01,0.1099945971401317E+00,0.1218669389371997E+00,0.1343882775023720E+00,0.1474214419209480E+00,0.1604652427893672E+00,0.1740274330212311E+00,0.1882098960836502E+00,0.2028920424159370E+00,0.2176890807248092E+00,0.2327278186986310E+00,0.2483646560545218E+00,0.2644453705018298E+00,0.2808837844185525E+00,0.2972167134922545E+00,0.3141274131744857E+00,0.3314290946351541E+00,0.3491215062656040E+00,0.3668201829222945E+00,0.3848391746423116E+00,0.4031976955624220E+00,0.4218955426764905E+00,0.4409034627548370E+00,0.4598732236924957E+00,0.4791320219354868E+00,0.4986796952919628E+00,0.5186322028053639E+00,0.5386146204750516E+00,0.5586223745671849E+00,0.5788699073493587E+00,0.5994942239370248E+00,0.6204531444514408E+00,0.6410643016800149E+00,0.6618685259452978E+00,0.6830214128103348E+00,0.7046114170098973E+00])
+
+ax.plot(x,y,"m+",linewidth=3,markersize=10,label=r"$ Gamaw Sas $")
+
+x = np.array([0.0000000000000000E+00,0.6122448979591837E-01,0.1224489795918367E+00,0.1836734693877551E+00,0.2448979591836735E+00,0.3061224489795918E+00,0.3673469387755102E+00,0.4285714285714285E+00,0.4897959183673469E+00,0.5510204081632653E+00,0.6122448979591837E+00,0.6734693877551020E+00,0.7346938775510203E+00,0.7959183673469388E+00,0.8571428571428571E+00,0.9183673469387755E+00,0.9795918367346939E+00,0.1040816326530612E+01,0.1102040816326531E+01,0.1163265306122449E+01,0.1224489795918367E+01,0.1285714285714286E+01,0.1346938775510204E+01,0.1408163265306122E+01,0.1469387755102041E+01,0.1530612244897959E+01,0.1591836734693878E+01,0.1653061224489796E+01,0.1714285714285714E+01,0.1775510204081633E+01,0.1836734693877551E+01,0.1897959183673469E+01,0.1959183673469388E+01,0.2020408163265306E+01,0.2081632653061225E+01,0.2142857142857143E+01,0.2204081632653061E+01,0.2265306122448980E+01,0.2326530612244898E+01,0.2387755102040816E+01,0.2448979591836735E+01,0.2510204081632653E+01,0.2571428571428571E+01,0.2632653061224490E+01,0.2693877551020408E+01,0.2755102040816326E+01,0.2816326530612245E+01,0.2877551020408163E+01,0.2938775510204081E+01,0.3000000000000000E+01])
+y = np.array([0.0000000000000000E+00,0.1243664178764305E-01,0.2487328356866362E-01,0.3730992534306168E-01,0.4974656711083727E-01,0.6218320887199036E-01,0.7461985062652095E-01,0.8705649237442907E-01,0.9949313411571470E-01,0.1119297758503778E+00,0.1243664175784185E+00,0.1368030592998366E+00,0.1492397010146323E+00,0.1616763427228055E+00,0.1741129844243562E+00,0.1865496261192844E+00,0.1989862678075901E+00,0.2114229094892733E+00,0.2238595511643340E+00,0.2362961928327723E+00,0.2487328344945881E+00,0.2611694761497813E+00,0.2736061177983520E+00,0.2860427594403004E+00,0.2984794010756261E+00,0.3109160427043295E+00,0.3233526843264102E+00,0.3357893259418687E+00,0.3482259675507044E+00,0.3606626091529178E+00,0.3730992507485086E+00,0.3855358923374770E+00,0.3979725339198230E+00,0.4104091754955463E+00,0.4228458170646472E+00,0.4352824586271257E+00,0.4477191001829815E+00,0.4601557417322149E+00,0.4725923832748259E+00,0.4850290248108143E+00,0.4974656663401804E+00,0.5099023078629239E+00,0.5223389493790449E+00,0.5347755908885433E+00,0.5472122323914193E+00,0.5596488738876728E+00,0.5720855153773039E+00,0.5845221568603124E+00,0.5969587983366985E+00,0.6093954398064622E+00])
+
+ax.plot(x,y,"m-",linewidth=1,markersize=3,label=r"$ Gamaw Sas $")
 
 ax.legend(loc="best")
 
